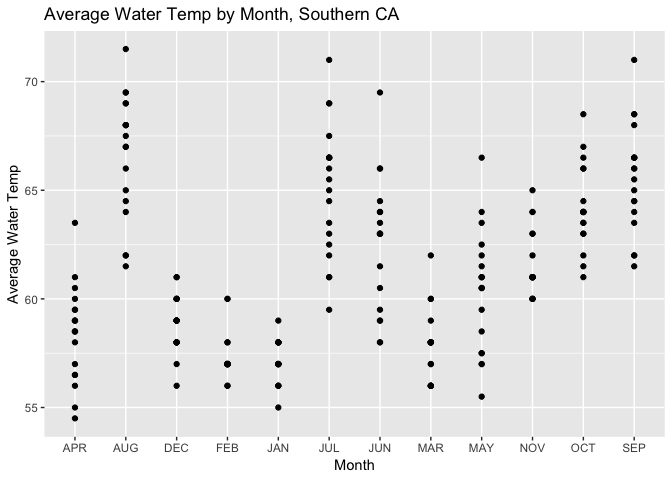
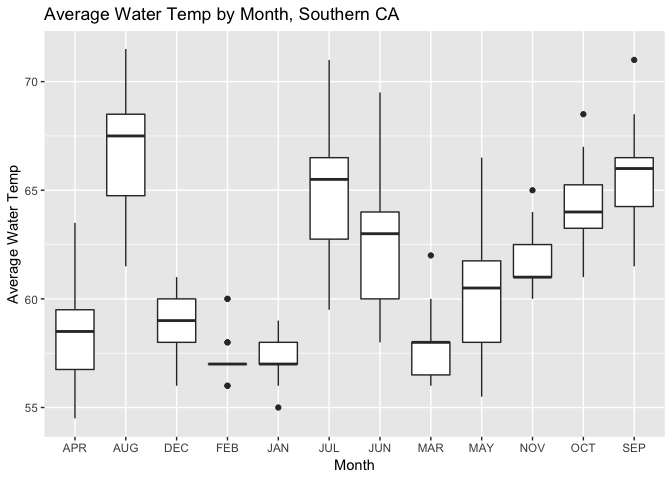
almost done!

diff --git a/hw_8.md b/hw_8.md
@@ -6,13 +6,9 @@ Abby Bergman
 Part 1: Exploring Population Density
 ====================================
 
-    ## `geom_smooth()` using method = 'gam' and formula 'y ~ s(x, bs = "cs")'
+![](hw_8_files/figure-markdown_github/unnamed-chunk-4-1.png)
 
-    ## Warning: Removed 180 rows containing non-finite values (stat_smooth).
-
-    ## Warning: Removed 180 rows containing missing values (geom_point).
-
-![](hw_8_files/figure-markdown_github/unnamed-chunk-4-1.png) As shown above, Life Expectancy appears to increase with Population Density, when plotted on the log scale.
+As shown above, Life Expectancy appears to increase with Population Density, when plotted on the log scale. The correlation between the two variables does not appear to be very strong.
 
 ``` r
 #regression model
@@ -41,61 +37,41 @@ summary(density_model)
     ## Multiple R-squared:  0.03217,    Adjusted R-squared:  0.03154 
     ## F-statistic: 50.59 on 1 and 1522 DF,  p-value: 1.744e-12
 
-The above regression model shows that there is a relationship between Life Expectancy and Population Density.
+The above regression model shows that there is a relationship between Life Expectancy and Population Density, with a high level of significance (p &lt; .05).
 
-part 2: Exploring Water Temperature on the Pacific Coast
+Part 2: Exploring Water Temperature on the Pacific Coast
 ========================================================
 
-``` r
-water <- read_html("https://www.nodc.noaa.gov/dsdt/cwtg/all_meanT.html")
-
-water_south <-  html_nodes(water, css = ".reg:nth-child(21)") %>%
-  html_table() %>%
-  as.data.frame()
-
-
-water_clean <- water_south %>%
-  mutate(APR = (APR1.15 + APR16.30)/2) %>%
-  mutate(MAY = (MAY1.15 + MAY16.31)/2) %>%
-  mutate(JUN = (JUN1.15 + JUN16.30)/2) %>%
-  mutate(JUL = (JUL1.15 + JUL16.31)/2) %>%
-  mutate(AUG = (AUG1.15 + AUG16.31)/2) %>%
-  mutate(SEP = (SEP1.15 + SEP16.30)/2) %>%
-  mutate(OCT = (OCT1.15 + OCT16.31)/2) %>%
-  select(Location, JAN, FEB, MAR, APR, MAY, JUN, JUL, AUG, SEP, OCT, NOV, DEC)
-
-water_month <- gather(water_clean, `JAN`, `FEB`, `MAR`, `APR`, `MAY`, `JUN`, `JUL`, `AUG`, `SEP`, `OCT`, `NOV`, `DEC` ,key = month, value = temp) 
-
-water_month %>%
-  ggplot(aes(month, temp)) +
-  geom_point() + 
-  labs(title = "Average Water Temp by Month, Southern CA", x = "Month", y = "Average Water Temp")
-```
+For this part of the assignment, I was interested in exploring the average water temperatures occurring along the Southern California coast, throughout the year. The data was retrieved from [here](https://www.nodc.noaa.gov/dsdt/cwtg/all_meanT.html) and includes average temperatures for each beach location for every month. The average temps are calculated over time.
 
 ![](hw_8_files/figure-markdown_github/unnamed-chunk-6-1.png)
 
-``` r
-water_season <- water_clean %>%
-  mutate(Winter = (JAN +FEB +DEC)/3, 
-         Spring = (MAR+APR+MAY)/3, 
-         Summer = (JUN+JUL+AUG)/3, 
-         Fall = (SEP+OCT+NOV)/3) %>%
-  select(Location, Winter, Spring, Summer, Fall) %>%
-  gather(`Winter`, `Spring`, `Summer`, `Fall`,key = season, value = temp)
+The highest average water temperatues occurred in August, followed by September, July and June. The lowest temperatures occurred in January and February. The highest average temperature is in the high 60s (Aug) and the lowest is in the high 50s (Feb). ![](hw_8_files/figure-markdown_github/unnamed-chunk-7-1.png)
 
-water_season %>%
-  ggplot(aes(season, temp)) +
-  geom_boxplot() + 
-  labs(title = "Boxplot of Avg Temperatures per Season", x = "Season", y = "Temperature")
-```
+The above boxplots shows the average temperatures across all the beach locations for each season. As expected, Summer had the highest average temperatures, although with a large range of temperatures. Winter had the lowest average temperatures.
 
-![](hw_8_files/figure-markdown_github/unnamed-chunk-7-1.png)
+![](hw_8_files/figure-markdown_github/unnamed-chunk-8-1.png)
+
+The above graph shows the four seasonal averages for each location along the OSuthern California coast. For most locations, the highest temperature occurred in the Summer seaosn. However, some locations (ex: Oceanside and Point Mugu) saw higher tesperatures in the Fall.
+
+![](hw_8_files/figure-markdown_github/unnamed-chunk-9-1.png)
+
+This graph plots the average yearly temperature for each location. San Diego saw the highest average sea temperature, while Point Mugu had the lowest average sea temperature.
 
 ``` r
-water_avg <- water_clean %>%
-  mutate(Avg = (JAN + FEB + MAR + APR + MAY + JUN + JUL + AUG + SEP + OCT + NOV + DEC)/12) %>%
-  select(Location, Avg)
+water_clean %>%
+  filter(Location == "San DiegoBay CA" | Location == "Santa MonicaCA" | Location == "Santa BarbaraCA" | Location == "Los AngelesCA") %>%
+  gather(`JAN`, `FEB`, `MAR`, `APR`, `MAY`, `JUN`, `JUL`, `AUG`, `SEP`, `OCT`, `NOV`, `DEC` ,key = month, value = temp) %>%
+group_by(month) %>%
+  ggplot(aes(month, temp, color = Location)) +
+  geom_point() +
+  theme(axis.text.x = element_text(angle = 90, hjust = 1)) +
+  labs(title = "Average Temperature at 4 Locations", x = "Month", y = "Temperature")
 ```
+
+![](hw_8_files/figure-markdown_github/unnamed-chunk-10-1.png)
+
+This graph shows the monthly average temperatures for four popular and well-known beach locations along the Southern California coast. The highest temperatures seem to have occurred in July, August, and September across the four beaches, although there is a large amount of variability.
 
 ``` r
 temp_model <- lm(temp ~ season, 
